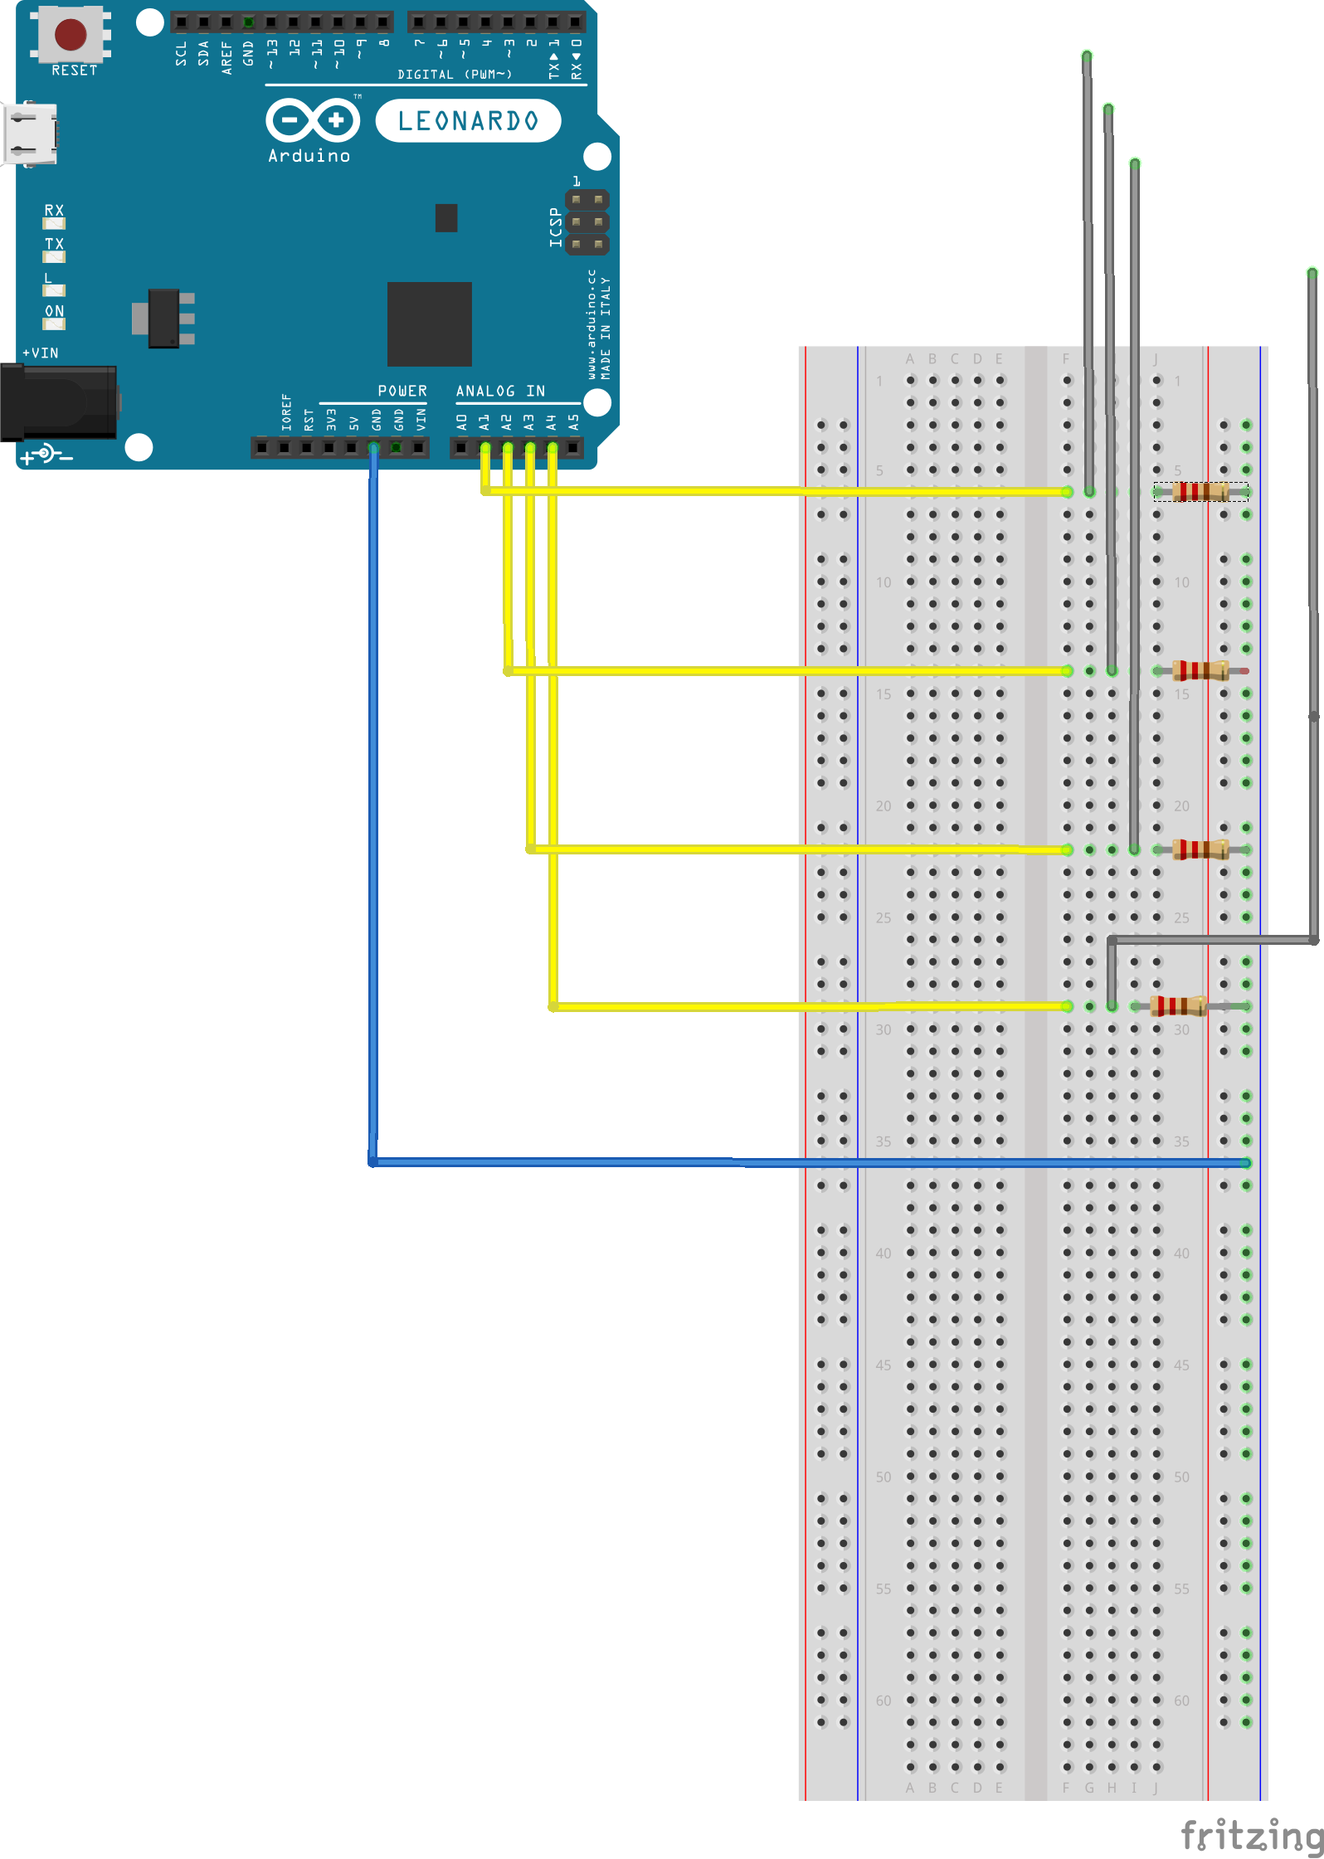
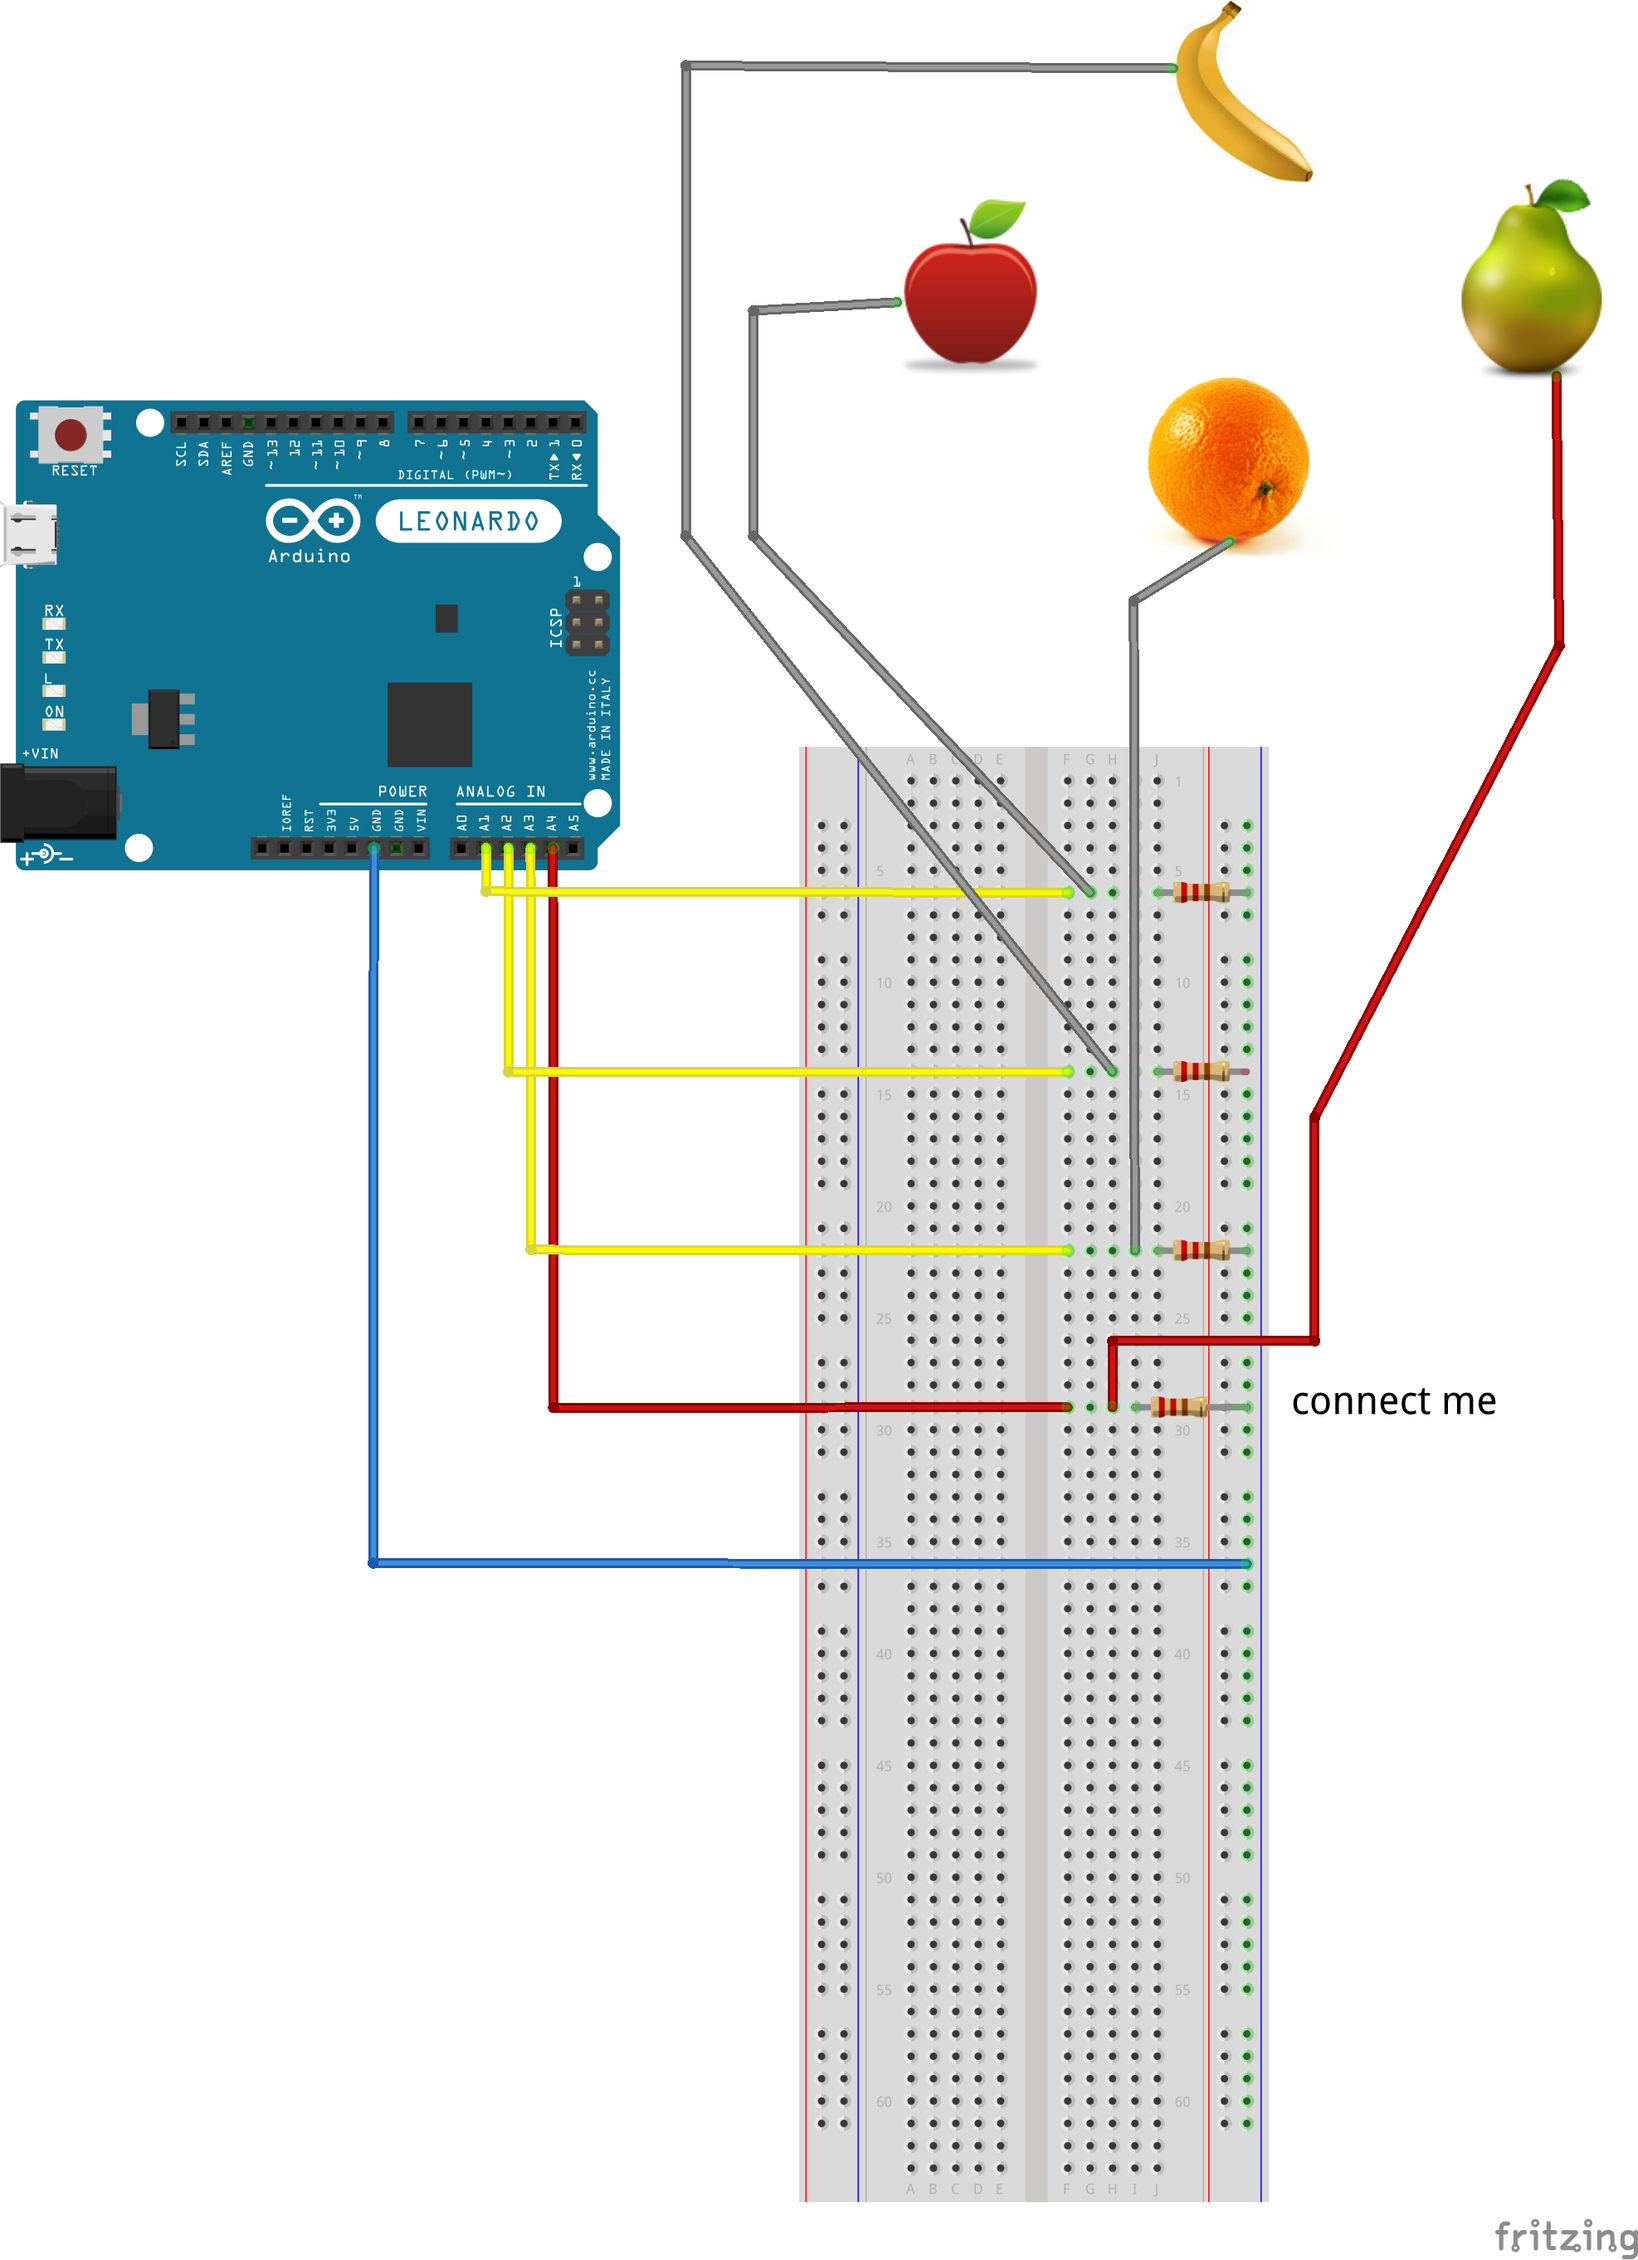
final modification (hopfully)

diff --git a/Ardunio/arduin_excersise.md b/Ardunio/arduin_excersise.md
@@ -4,16 +4,17 @@ Arduino pacman exercise
 General
 -------
 
-The goal of this exercise is to create a pacman controller using a pencil and paper.
+The goal of this exercise is to create a pacman controller using fruit as your keyboard arrows.
 
 How? We will use the electricity in our fingers. You will use fruit as your four arrows: <-, ^, ->, v. You may actually use anything you like (be creative) as long as it’s a semi-conductor. When you press on an arrow, detect it with the Arduino controller and fake the keyboard button accordingly.
 
 Steps
 -----
 
-1. Draw / Create your arrows (use pencil and paper, vegetables or plasteline). Make sure you can reach each arrow with a cable.
+1. Create your arrows (fruit). Make sure you can reach each arrow with a cable.
 2. Connect the Arduino as described in the following [diagram](resources/pacman-arduino-skatch.png)
 	* What we want to do is use the semi-conductors and keys for our keyboard.
+	* You will need to connect only the wires in RED (the rest is done for you).
 3. Complete the code in the Arduino IDE
 	* Arduino comes with a build in framework that runs C/C++ code.
 	* Any Arduino program has a `setup()` and `loop()` functions. `setup()` is called once and `loop()` is called all the time (like a `while(true)` loop).
@@ -23,4 +24,3 @@ Steps
 		3. See more instructions and examples in the code.
 4. Upload the code to the Arduino controller by pressing the *upload* button
 5.	Play pacman [pacman](http://files.widgetbox.com/widgets/neave/neave_pacman_widgetbox.swf) :)
-
